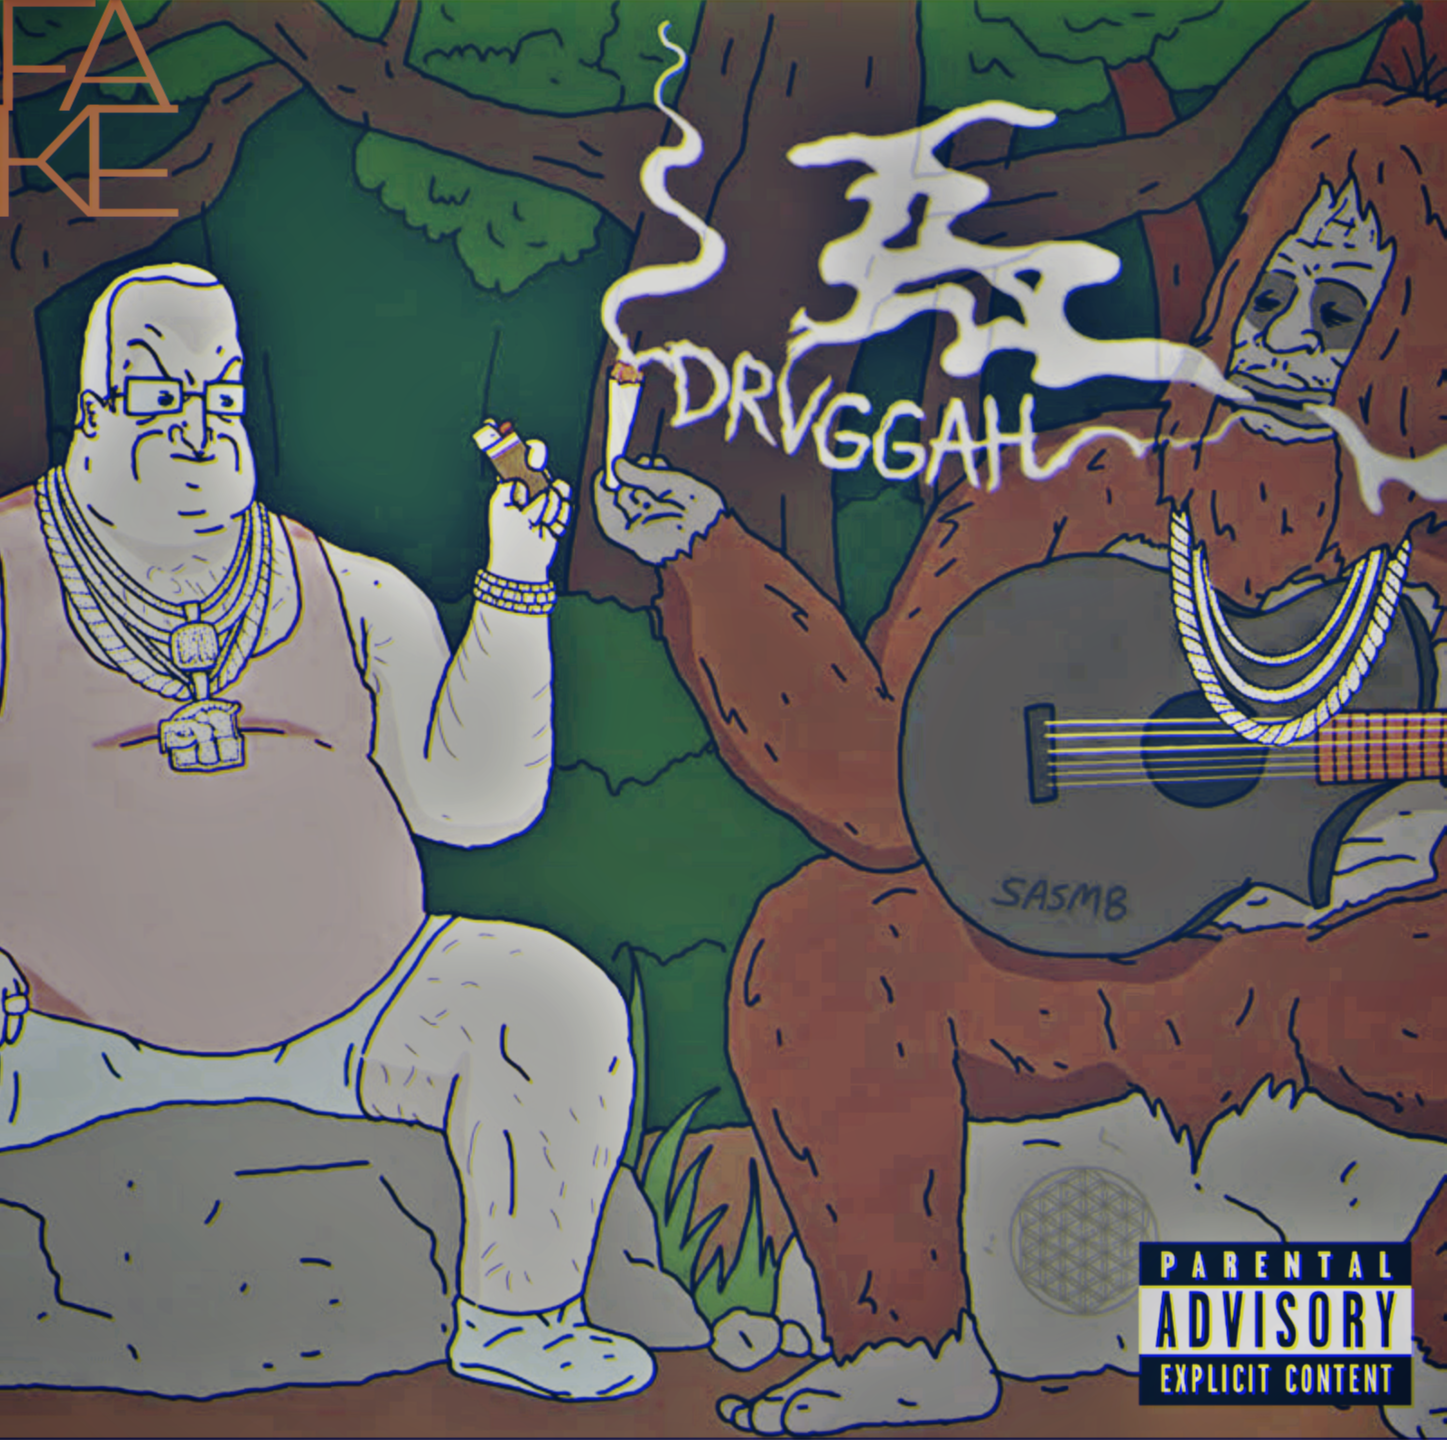
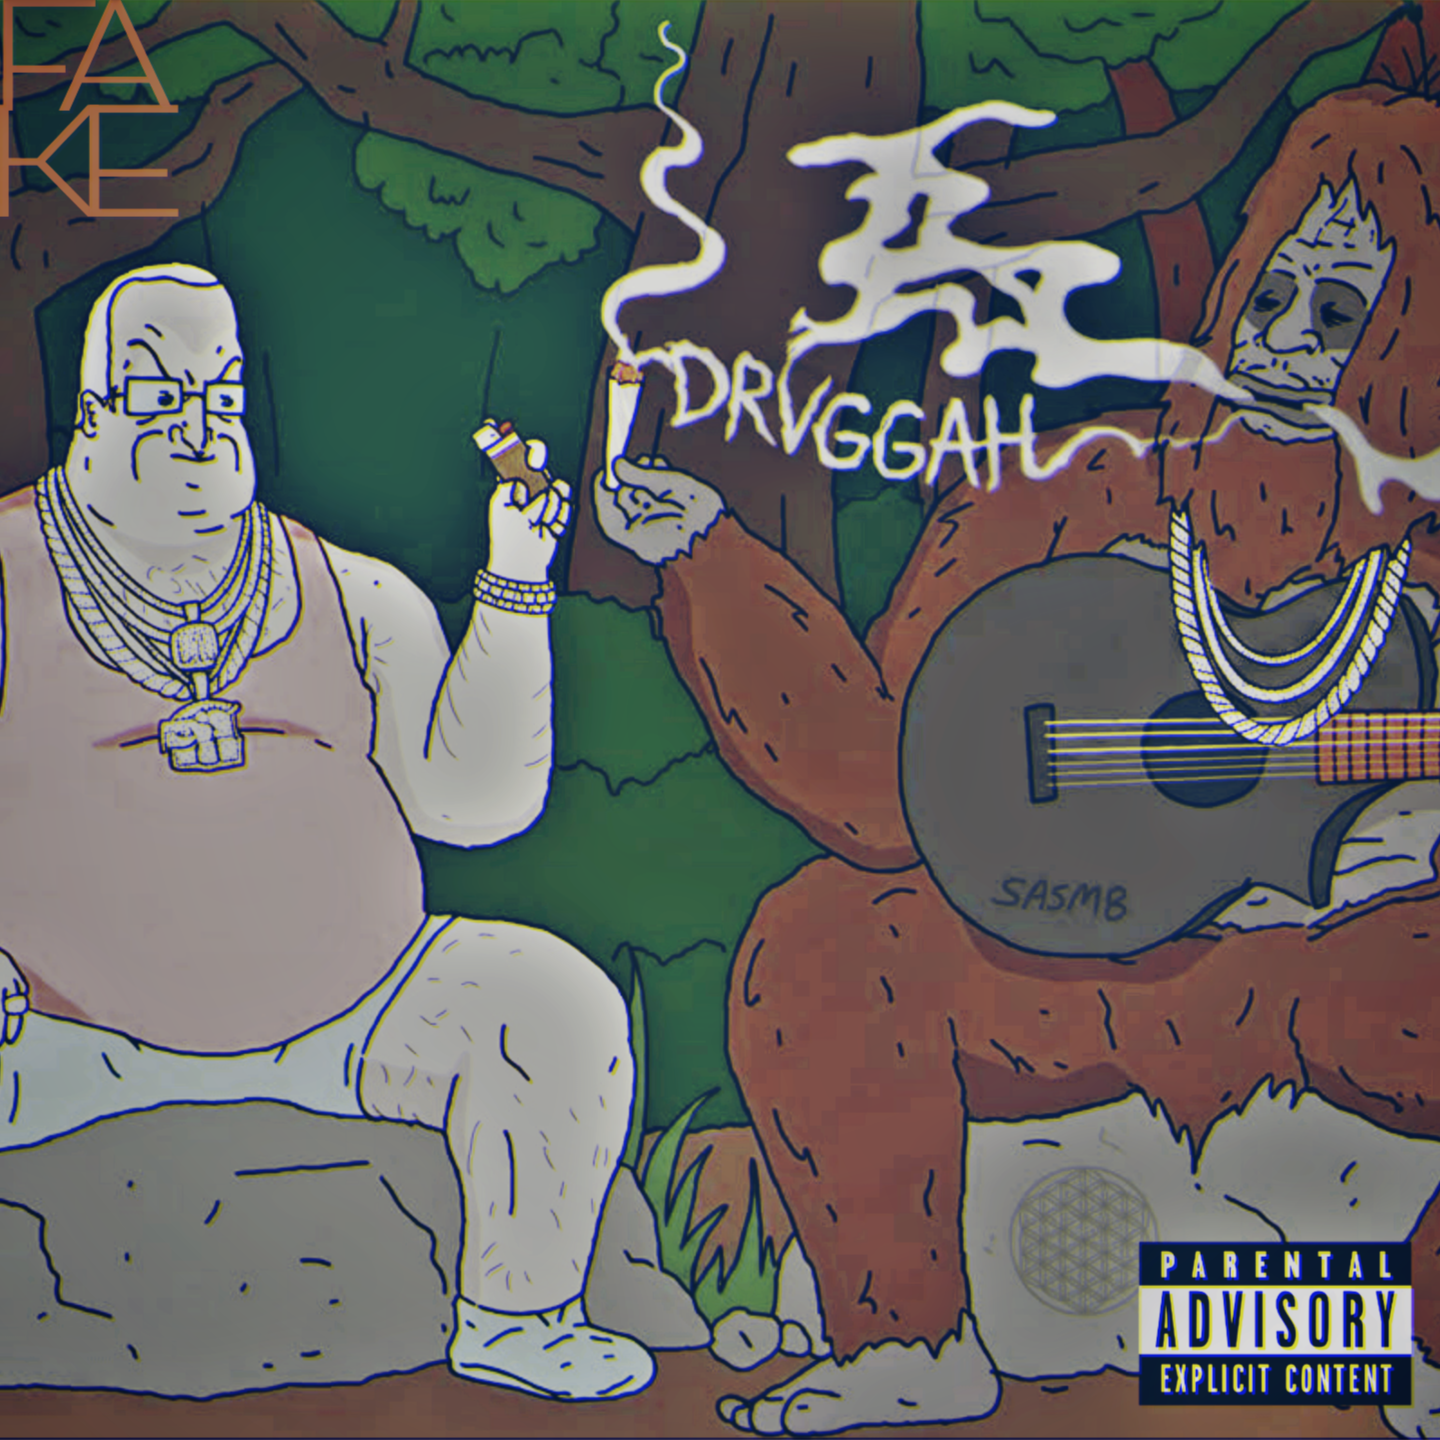
modified:   Music/EPs/The JailBreakk/DrVgGaH.png 	modified:   link.html

diff --git a/link.html b/link.html
@@ -33,9 +33,9 @@
             <h1>X/i\D</h1>
             <p class="lead">Music, beats, videos, booking, livestreams, submissions, and socials in one place.</p>
             <div class="quick-socials" aria-label="Social links">
-                <a href="#">Instagram</a>
-                <a href="#">TikTok</a>
-                <a href="">YouTube</a>
+                <a href="https://www.instagram.com/maoriboishido">Instagram</a>
+                <a href="https://www.tiktok.com/@xidmusic">TikTok</a>
+                <a href="https://www.youtube.com/@xidmusic">YouTube</a>
                 <a href="https://musicbrainz.org/artist/b6060330-4802-450e-bd04-5e997ce61f43">MusicBrainz</a>
             </div>
         </section>
@@ -83,12 +83,18 @@
                 <h2>Follow</h2>
             </div>
             <div class="social-grid">
-                <a href="#"><strong>Instagram</strong><span>@yourhandle</span></a>
-                <a href="#"><strong>TikTok</strong><span>@yourhandle</span></a>
-                <a href="#"><strong>X / Twitter</strong><span>@yourhandle</span></a>
-                <a href="#"><strong>Facebook</strong><span>Official page</span></a>
-                <a href="#"><strong>Twitch</strong><span>Live sessions</span></a>
-                <a href="#"><strong>Discord</strong><span>Community invite</span></a>
+                <a
+                    href="https://www.instagram.com/maoriboishido"><strong>Instagram</strong><span>@maoriboishido</span></a>
+                <a href="https://www.tiktok.com/@xidmusic"><strong>TikTok</strong><span>@xidmusic</span></a>
+                <a href="https://x.com/etnadnisamok"><strong>X / Twitter</strong><span>@etnadnisamok</span></a>
+                <a href="https://www.youtube.com/@xidmusic"><strong>Youtube</strong><span>Official Channel</span></a>
+                <a href="https://kick.com/thenativepvnk"><strong>Kick</strong><span>Live Sessions</span></a>
+                <a href="https://www.twitch.tv/xidmusic"><strong>Twitch</strong><span>Live sessions</span></a>
+                <a href="https://rumble.com/user/yaboishido"><strong>Rumble</strong><span>Unrestricted Live
+                        Sessions</span></a>
+                <a href="https://www.reddit.com/r/Shidothafakest/"><strong>Reddit</strong><span>Official
+                        Subreddit</span></a>
+                <a href=""><strong>Discord</strong><span>Community invite</span></a>
             </div>
         </section>
 
